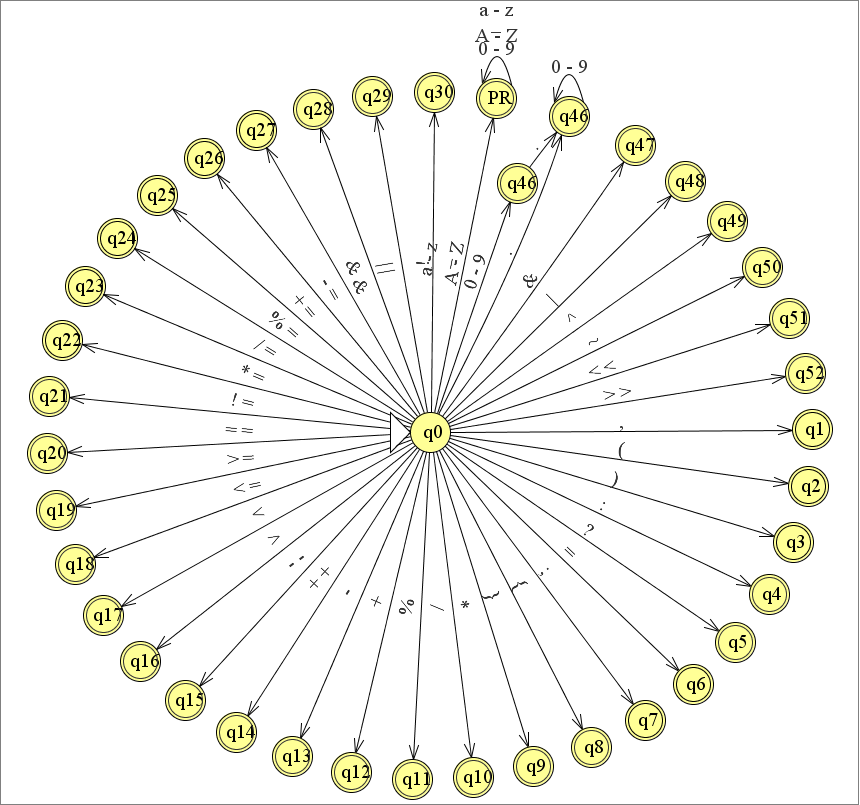
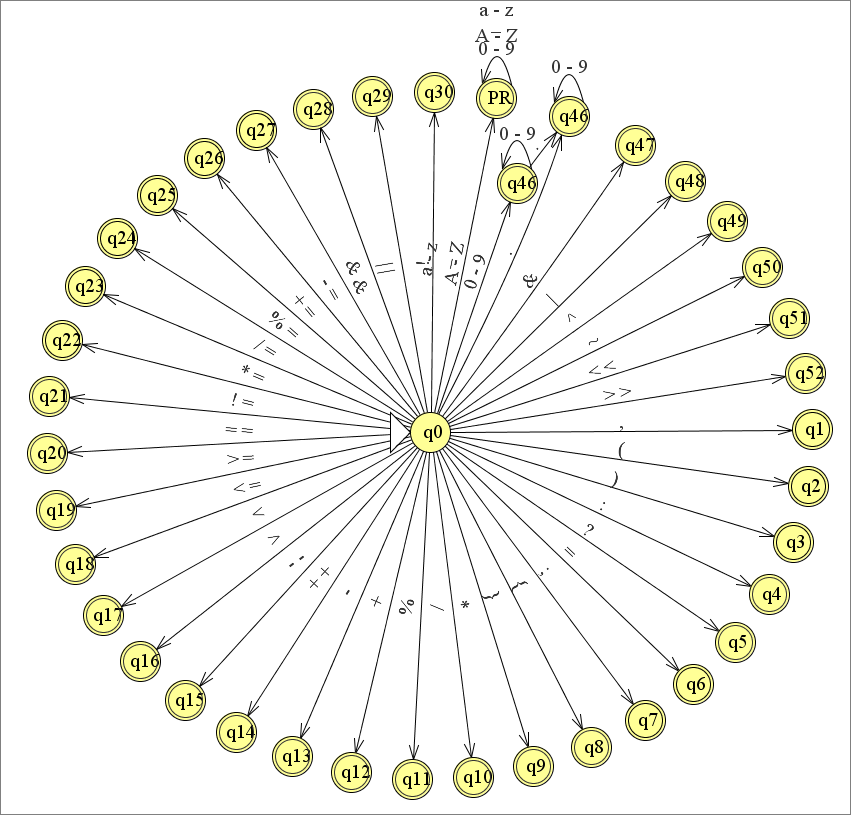
Ajuste no automato

diff --git a/program.c b/program.c
@@ -22,8 +22,8 @@ int main() {
 	f = a >> 2;
 
 	cst = 123.45;
-	cst = .1;
-	cst = 1.;
+	cst = .11;
+	cst = 11.;
 
 	while(a != 0) {
 		continue;
